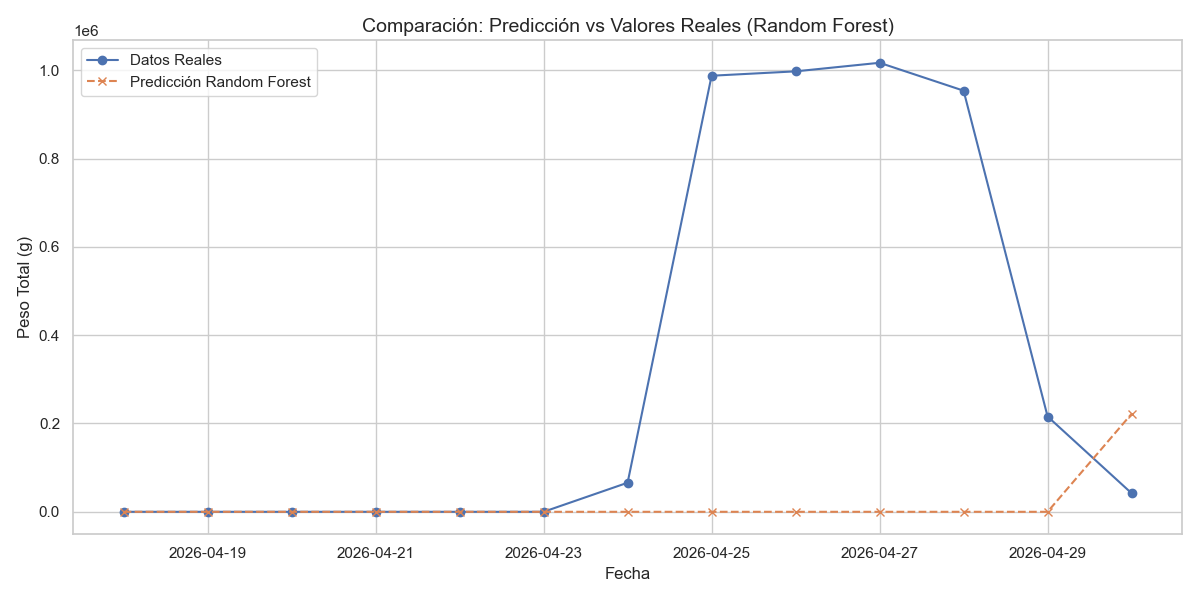
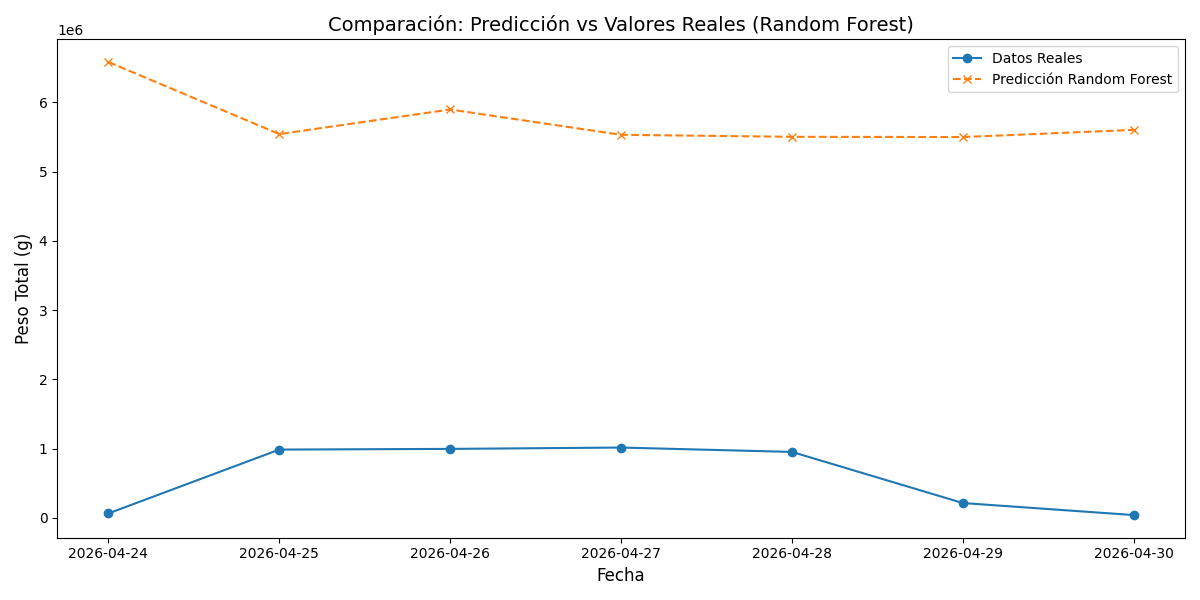
Fix KPI inflation: use daily max instead of sum for sensor aggregation
The weight sensor sends ~14,400 readings/day of the current scale state.
Summing them multiplied the actual daily waste by the read frequency,
producing absurd totals (390,680m fabric / 325,567 pants for 32 days).

- Change resample aggregation from sum() to max() (peak daily waste)
- Add upper bound filter (<=500g) to remove anomalous sensor spikes
- Replace pant-weight division with waste-ratio-based conversion:
  density=225g/m, waste=45m/month, acquisition=9805.66m/month
- Return conversion factor from integrar_logica_negocio for predictions
- Fix prediction section in dashboard to use the same factor

diff --git a/modelo_prediccion.py b/modelo_prediccion.py
@@ -28,9 +28,9 @@ def cargar_y_limpiar_datos(filepath_excel, filepath_csv1, filepath_csv3):
     # Transformación: Valores absolutos para corregir taras negativas
     df['value'] = df['value'].abs()
     
-    # Filtrar ruido: Conservar solo pesos significativos (>= 50g)
-    # asumiendo que un pantalón es 500g, esto elimina el ruido de los sensores.
-    df = df[df['value'] >= 50]
+    # Filtrar ruido: Conservar solo pesos significativos entre 50g y 500g.
+    # <50g: ruido de tara del sensor vacío. >500g: picos anómalos del sensor (ej: -2464g → 2464g).
+    df = df[(df['value'] >= 50) & (df['value'] <= 500)]
     
     # Convertir a formato fecha y tiempo, manejando zonas horarias (UTC a local)
     df['created_at'] = pd.to_datetime(df['created_at'])
@@ -74,38 +74,42 @@ def integrar_logica_negocio(df):
     print("Integrando variables de negocio y preparación de Features para el modelo...")
     
     # ---- VARIABLES DE NEGOCIO PROPORCIONADAS ----
-    PESO_PANTALON_SECO_G = 500  # g
-    TELA_ADQUIRIDA_M = 9805.66  # metros
-    
-    # Desperdicio histórico: Octubre 2025 - Marzo 2026 (6 meses)
-    DESPERDICIO_TOTAL_KG = 16075  # kg
-    PROMEDIO_DESPERDICIO_MENSUAL_KG = DESPERDICIO_TOTAL_KG / 6
-    
-    # Desperdicio de papel mensual y tela por pantalón
-    RETAZO_PAPEL_PROM_M = 55    # Promedio entre 50 y 60 metros
-    TELA_POR_PANTALON_M = 1.20  # Promedio entre 1.10 y 1.30 metros
+    TELA_ADQUIRIDA_M = 9805.66        # metros de tela adquirida por mes
+    TELA_POR_PANTALON_M = 1.20        # metros de tela por pantalón (promedio 1.10–1.30)
+    DESPERDICIO_PROM_M = 45           # metros de tela desperdiciada por mes (rango: 40–50)
+    DENSIDAD_TELA_G_POR_M = 225       # gramos por metro lineal de tela
     # ---------------------------------------------
-    
-    # Agrupar los datos por día (agregación diaria para predecir a futuro)
-    df_diario = df.resample('D').agg({'value': 'sum'})
-    # CRÍTICO: resample('D') crea días con suma 0.0 si no hubo recolección de datos (sensores apagados).
-    # Debemos eliminar estos ceros falsos para que el modelo no aprenda que existen días de "0 producción" por error de muestreo.
+
+    # Métricas de negocio derivadas de las constantes anteriores
+    pantalones_por_mes = (TELA_ADQUIRIDA_M - DESPERDICIO_PROM_M) / TELA_POR_PANTALON_M
+    metros_desperdicio_por_pantalon = DESPERDICIO_PROM_M / pantalones_por_mes
+
+    # Factor de conversión: kg de desperdicio medido por el sensor → pantalones producidos
+    # Derivado de: metros_desperdicio = peso_g / DENSIDAD; pantalones = metros / metros_desperdicio_por_pantalon
+    factor_kg_a_pantalones = 1000.0 / (DENSIDAD_TELA_G_POR_M * metros_desperdicio_por_pantalon)
+
+    # Agregación diaria: MÁXIMO del peso sobre la báscula en el día.
+    # El sensor mide el peso ACTUAL en la báscula (medición de estado, no incremental).
+    # El pico diario equivale al mayor acumulado de retazos antes de vaciar la báscula,
+    # que es el desperdicio real generado en el día. Usar sum() multiplica ese peso
+    # por la cantidad de lecturas (~14 400/día) y produce valores absurdamente inflados.
+    df_diario = df.resample('D').agg({'value': 'max'})
     df_diario = df_diario[df_diario['value'] > 0].copy()
-    
+
     df_diario.rename(columns={'value': 'peso_total_g'}, inplace=True)
     df_diario['peso_total_kg'] = df_diario['peso_total_g'] / 1000.0
-    
-    # Cálculos derivados en base a la lógica de negocio
-    # Cantidad estimada de pantalones procesados según el peso en sensores
-    df_diario['pantalones_procesados'] = df_diario['peso_total_g'] / PESO_PANTALON_SECO_G
-    
-    # Estimación de la tela consumida para los pantalones procesados
+
+    # Metros de desperdicio diario medido por la báscula
+    df_diario['metros_desperdicio'] = df_diario['peso_total_g'] / DENSIDAD_TELA_G_POR_M
+
+    # Pantalones estimados a partir del desperdicio diario medido
+    df_diario['pantalones_procesados'] = df_diario['metros_desperdicio'] / metros_desperdicio_por_pantalon
+
+    # Tela consumida: producción neta (sin el desperdicio)
     df_diario['tela_consumida_m'] = df_diario['pantalones_procesados'] * TELA_POR_PANTALON_M
-    
-    # Ratio de desperdicio estimado (basado en el promedio mensual histórico)
-    # 1 mes promedio = 30 días aprox -> Promedio diario estimado
-    promedio_diario_desperdicio_g = (PROMEDIO_DESPERDICIO_MENSUAL_KG * 1000) / 30
-    df_diario['desperdicio_estimado_g'] = promedio_diario_desperdicio_g
+
+    # El sensor mide el desperdicio directamente; se registra como dato real (no estimado)
+    df_diario['desperdicio_estimado_g'] = df_diario['peso_total_g']
     
     # Variables temporales para el modelo de Machine Learning
     df_diario['dia_semana'] = df_diario.index.dayofweek
@@ -122,8 +126,8 @@ def integrar_logica_negocio(df):
     
     # Eliminar valores NaN generados por el lag y la media móvil
     df_diario.dropna(inplace=True)
-    
-    return df_diario
+
+    return df_diario, factor_kg_a_pantalones
 
 def entrenar_modelo_random_forest(df_procesado, n_arboles=100):
     print(f"Entrenando el modelo Predictivo Random Forest con {n_arboles} árboles...")

diff --git a/dashboard_tesis.py b/dashboard_tesis.py
@@ -122,10 +122,10 @@ st.header("🤖 Análisis Histórico y Predicción (Random Forest)")
 
 def cargar_y_entrenar_modelo_v2(filepath_excel, filepath_csv1, filepath_csv3, n_arboles):
     df_limpio = cargar_y_limpiar_datos(filepath_excel, filepath_csv1, filepath_csv3)
-    df_final = integrar_logica_negocio(df_limpio)
-    
+    df_final, factor_kg_pantalones = integrar_logica_negocio(df_limpio)
+
     rf_model, rmse, mae, r2, seguridad_pct = entrenar_modelo_random_forest(df_final, n_arboles)
-    return df_final, rf_model, rmse, mae, r2, seguridad_pct
+    return df_final, rf_model, rmse, mae, r2, seguridad_pct, factor_kg_pantalones
 
 archivo_excel = 'Datos-sensores-entrenamiento.xlsx'
 archivo_csv1 = 'SensorPESO1-20260310-2114.csv'
@@ -136,7 +136,7 @@ n_arboles_select = st.selectbox("Cantidad de árboles en el Random Forest (n_est
 
 if os.path.exists(archivo_excel) and os.path.exists(archivo_csv1) and os.path.exists(archivo_csv3):
     with st.spinner(f"Entrenando el modelo con {n_arboles_select} árboles..."):
-        df_historico, modelo_rf, rmse, mae, r2, seguridad_pct = cargar_y_entrenar_modelo_v2(archivo_excel, archivo_csv1, archivo_csv3, n_arboles_select)
+        df_historico, modelo_rf, rmse, mae, r2, seguridad_pct, factor_kg_pantalones = cargar_y_entrenar_modelo_v2(archivo_excel, archivo_csv1, archivo_csv3, n_arboles_select)
         
     st.success("¡Modelo Random Forest entrenado exitosamente con los datos históricos!")
     
@@ -179,8 +179,7 @@ if os.path.exists(archivo_excel) and os.path.exists(archivo_csv1) and os.path.ex
     
     prediccion_futura_kg = modelo_rf.predict(ultimo_dia[features_modelo])
     
-    # 1 pantalón = 500g = 0.5kg
-    pantalones_futuros = prediccion_futura_kg[0] / 0.5
+    pantalones_futuros = prediccion_futura_kg[0] * factor_kg_pantalones
     tela_futura = pantalones_futuros * 1.20
     
     st.info(f"**Predicción de Peso Total para el siguiente ciclo:** {prediccion_futura_kg[0]:.2f} kilogramos")
